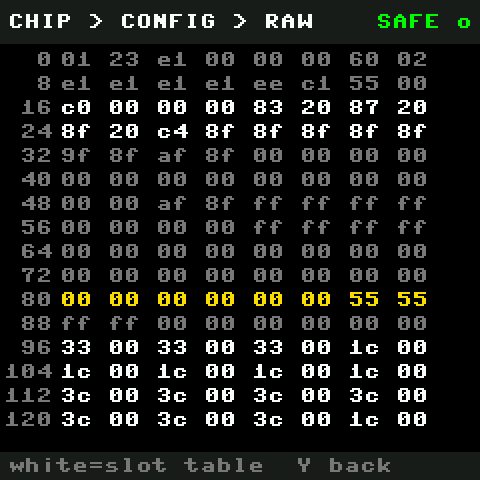
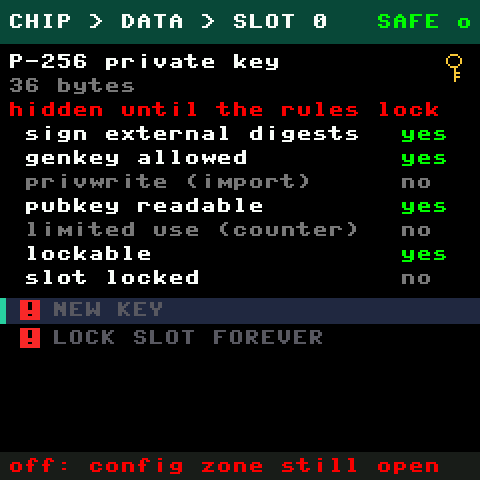
CHIPMAP.md and README for the new look: floor plan, tiles, badges, ceremonies, SIGN TEST, the note; screenshots refreshed
Claude-Session: https://claude.ai/code/session_01JiLn2gdKw2t1MbMzFL8pJj

diff --git a/CHIPMAP.md b/CHIPMAP.md
@@ -1,13 +1,13 @@
 # CHIP MAP: exploring the ATECC608 on the wallet itself
 
 The secure element usually disappears under a product. On this wallet it is the other way round:
-press a button and the chip is a place you can walk through, with rules, memory, secrets, a random
-generator and a few one-way doors. This is how that part of the firmware works: the screens, the
-keys, the three safety classes, the gates in front of anything permanent, and the code behind it.
+press a button and the chip is a place you can walk through, drawn as a floor plan, with rules,
+memory, secrets, a random generator and a few one-way doors. This is how that part of the firmware
+works: the screens, the keys, the three safety classes, the gates in front of anything permanent,
+the ceremonies behind those gates, and the code.
 
 Everything below runs on the Pico 2 W with the Waveshare Pico-LCD-1.3 (240×240, joystick, A/B/X/Y)
-and on the emulator (`tools/emu`), which has a virtual ATECC608 that answers like a fresh Adafruit
-breakout.
+and on the emulator (`tools/emu`), whose virtual ATECC608 answers like a fresh Adafruit breakout.
 
 ## Two doors: X and B
 
@@ -20,22 +20,32 @@ From the home screen:
 
 Y always goes up one level, and from the top of the map or the tutorial it goes home.
 
+![the boot screen](buildlog/images/chipmap-00-boot.png)
 ![the chip map](buildlog/images/chipmap-01-map.png)
-![the tutorial](buildlog/images/chipmap-11-learn.png)
 
 ## The header: where you are, and whether the wallet is armed
 
-Every chip screen has the same 22-pixel header bar. On the left is the breadcrumb: `CHIP`,
-`CHIP > CONFIG`, `CHIP > DATA > SLOT 3`, `LEARN > 2 ASK THE CHIP`. It is built from the trail of
-screens you came through; when it gets long it loses its head, never its tail (`.. DATA > SLOT 0`).
+Every chip screen has the same 22-pixel header bar, tinted with the colour of the zone you are in:
+CONFIG blue, DATA teal, OTP orange, COUNTERS purple, LAB pink, LEARN gold, refusals and the red
+screen red, results green. On the left is the breadcrumb: `CHIP`, `CHIP > CONFIG`,
+`CHIP > DATA > SLOT 3`, `LEARN > 2 ASK THE CHIP`. It is built from the trail of screens you came
+through; when it gets long it loses its head, never its tail (`.. DATA > SLOT 0`).
 
 On the right is the wallet's state: `SAFE o` in green, or `! ARMED 57s` in red counting down.
 ARM is not on the map on purpose. It is the wallet's own safety catch, not a feature of the chip.
 
 ## The map
 
+The map is the die itself: a dark rectangle with legs, and inside it the regions where they sit.
+CONFIG is a strip across the top with a padlock showing whether it is open or sealed. DATA is a 4×4
+field of small tiles, one per slot, coloured by what the slot is (gold for a P-256 key, blue for a
+public key, purple for AES, teal for plain data), the active slot outlined in green. OTP and
+COUNTERS are two small blocks on the right; the LAB is docked along the bottom. The joystick moves
+the white frame from region to region; the caption under the die names it, gives its size and
+state, and one line on what it is for. A opens the region.
+
 ```
-CHIP  (ATECC608A, i2c 0x60, serial ...)
+CHIP  (ATECC608A, i2c 0x60)
 ├── CONFIG     128 B   OPEN | LOCKED     the rules for every slot
 │   ├── o RAW BYTES                       the 128 bytes, 8 a row, slot table in white
 │   ├── o COMPARE WITH SAVED              chip vs the saved snapshot
@@ -44,11 +54,14 @@ CHIP  (ATECC608A, i2c 0x60, serial ...)
 │   ├── ! LOCK CONFIG FOREVER             permanent (only once the chip holds the wallet table)
 │   ├── ! LOCK DATA ZONE                  permanent (only after the config lock)
 │   └── o RE-READ
-├── DATA       16 slots                   keys and bytes, 36 B (0-7), 416 B (8), 72 B (9-15)
-│   └── SLOT n                            kind, size, what it may do, then its actions
+├── DATA       16 slots                   a 4x4 grid of tiles: 36 B (0-7), 416 B (8), 72 B (9-15)
+│   └── SLOT n                            kind, size, its rules, then its actions
 │       ├── o USE THIS KEY                make it the signing slot
-│       ├── ! NEW KEY                     permanent: GenKey replaces what is there
 │       ├── o SHOW PUBLIC KEY             qx and qy
+│       ├── o SIGN TEST                   sign 32 bytes, verify on the Pico, read counter 0
+│       ├── ! NEW KEY                     permanent: GenKey replaces what is there
+│       ├── ~ WRITE A NOTE                clear data slots only: 32 bytes you can overwrite
+│       ├── o READ THE BYTES              slots the rules let you read
 │       └── ! LOCK SLOT FOREVER           permanent
 ├── OTP        64 B                       write-once bits; hidden until the config lock
 ├── COUNTERS   2                          only ever go up
@@ -60,34 +73,40 @@ CHIP  (ATECC608A, i2c 0x60, serial ...)
     ├── IS YOUR SLOT A KEY?               Info KeyValid on the active slot
     ├── WHAT'S COUNTER 0?                 Counter read
     ├── WHAT'S IN YOUR OTP?               Read OTP block 0
-    ├── TRY READING SLOT 8                Read data slot 8
+    ├── TRY READING SECRET SLOT 8         Read data slot 8 (a secret slot under the wallet config)
     └── READ YOUR OWN ADDRESS             Read config word 4 (the I2C address byte)
 
 LEARN
 ├── 1 WHAT'S INSIDE?        -> the map
 ├── 2 ASK THE CHIP          -> the LAB
 ├── 3 CHANGE THE RULES      -> the CONFIG page
-├── 4 MAKE A KEY            -> the DATA list (waits for sealed rules)
-├── 5 SEAL THE VAULT        -> the CONFIG page (the three one-way doors; not today)
+├── 4 MAKE A KEY            -> the DATA grid (waits for sealed rules)
+├── 5 SEAL THE VAULT        -> the CONFIG page (the three one-way doors)
 └── ? COLOURS AND GATES
 ```
 
 Keys on every menu: joystick up/down moves, A (or the joystick press) opens or does, Y goes up.
-On a slot, left/right steps to the neighbouring slots. Result screens dismiss with A.
+On the DATA grid the joystick moves in all four directions; on a slot page, left/right step to the
+neighbouring slots. Result screens dismiss with A.
 
-![the data list](buildlog/images/chipmap-02-data-list.png)
+![the data grid](buildlog/images/chipmap-02-data-list.png)
 ![slot 0](buildlog/images/chipmap-03-slot-0.png)
+
+Each tile shows the slot number, its kind as an icon, its size, and one word: a fingerprint once a
+key is there, `hidden` in red while the config zone is still open, `empty` for a key slot with no
+key yet, `secret` or `clear` for data slots (the rules decide whether the chip will ever hand the
+bytes out in clear). A green bar marks the active slot, a red padlock a locked one.
 
 ## Three classes, said three ways
 
-Every action is one of three kinds, and each is shown by its colour, a glyph, and words, so it is
-never colour alone:
+Every action is one of three kinds, and each is shown by a coloured badge with its glyph, and by
+words in the footer when the item is selected, so it is never colour alone:
 
-| glyph | colour | words in the footer when the item is selected | examples |
-|---|---|---|---|
-| `o` | green | `SAFE TO EXPLORE: no changes` | reads, the LAB, RAW BYTES, SHOW PUBLIC KEY |
-| `~` | yellow | `REVERSIBLE: can be restored` | WRITE WALLET CONFIG, RESTORE SAVED CONFIG |
-| `!` | red | `PERMANENT: cannot be undone` | the three locks, NEW KEY |
+| badge | words | examples |
+|---|---|---|
+| green `o` | `SAFE TO EXPLORE: no changes` | reads, the LAB, RAW BYTES, SHOW PUBLIC KEY, SIGN TEST |
+| yellow `~` | `REVERSIBLE: can be restored` | WRITE WALLET CONFIG, RESTORE SAVED CONFIG, WRITE A NOTE |
+| red `!` | `PERMANENT: cannot be undone` | the three locks, NEW KEY |
 
 An item that cannot run right now is dimmed and the footer says why: `off: config zone still
 open`, `off: ALLOW_LOCK is False on the board`, `off: not armed: hold B+Y 3 s`, `off: write the
@@ -104,12 +123,26 @@ A permanent action goes through three gates, in this order:
    disarms. This lives in `signer.py`, so the app's remote `genkey` and `lock-config` commands
    over WiFi need it too: nothing permanent happens without someone at the device.
 3. **The red screen.** `PERMANENT: cannot be undone`, an open padlock, exactly what is about to be
-   sealed, and A held for **3 seconds** with a bar and a 3-2-1 countdown. Y cancels. A lock ends
-   on a green padlock and `SEALED`.
+   sealed, and A held for **3 seconds** with a bar and a 3-2-1 countdown. Y cancels.
 
 ![armed](buildlog/images/chipmap-12-armed.png)
 ![the red screen while holding A](buildlog/images/chipmap-13-permanent-hold.png)
+
+### The ceremonies
+
+What happens after the hold is not a menu line. The chip does the permanent thing, and then:
+
+- **RULES SEALED** (LOCK CONFIG FOREVER): the die is drawn with the CONFIG strip pulsing red, the
+  screen flashes white once, the strip turns green, the padlock closes, `RULES SEALED`, "never to
+  change again". Then the green SEALED screen with what opens next (the data zone, NEW KEY).
+- **KEY CREATED** (NEW KEY): the slot's tile fills with noise from the chip's own random generator
+  that thins out over eight frames while the key icon and the new fingerprint settle in.
+- **KEY SEALED** and **DATA SEALED** (LOCK SLOT, LOCK DATA ZONE): the padlock closes.
+
+Each is under a second, drawn on the wallet's timer right after the chip answers.
+
 ![sealed](buildlog/images/chipmap-14-sealed.png)
+![the grid after the lock](buildlog/images/chipmap-15-grid-sealed.png)
 
 The yellow screen is the lighter version: what will change, `I2C address unchanged`, `config zone
 stays OPEN`, and A held for 1.5 s. Y shows the full diff; B cancels.
@@ -117,13 +150,15 @@ stays OPEN`, and A held for 1.5 s. Y shows the full diff; B cancels.
 ## Refusals are part of the lesson
 
 A fresh chip says no to a lot: it hides the DATA and OTP zones, refuses GenKey and Sign, and
-answers Random with a fixed test pattern until its config zone is locked. The UI treats each refusal
-as an answer. The screen says `CHIP SAYS: NOT ALLOWED`, then **Why?** in plain words for this chip
-state ("The CONFIG zone is still open. Until its rules are locked, the chip will not expose the
-OTP zone."), then the raw truth: `STATUS 0x0F`, `execution error: not allowed in this state`.
-A on that screen shows the exact command: opcode, parameters, data, the answer bytes, round trip.
+answers Random with a fixed test pattern until its config zone is locked. A sealed chip still says
+no where its rules say so: slot 8 under the wallet config is secret, and the chip never hands its
+bytes out in clear. The UI treats each refusal as an answer. The screen says `CHIP SAYS: NOT
+ALLOWED`, then **Why?** in plain words for this chip state, then the raw truth: `STATUS 0x0F`,
+`execution error: not allowed in this state`. A on that screen shows the exact command: opcode,
+parameters, data, the answer bytes, round trip.
 
 ![a refusal](buildlog/images/chipmap-10-refused.png)
+![the secret slot](buildlog/images/chipmap-18-secret-slot.png)
 
 In the LAB the same idea has one more layer. An answer screen gives the meaning in words and the
 bytes; when the answer is odd (`MAKE RANDOMNESS` on an unlocked chip returns `ffff0000` eight
@@ -137,7 +172,7 @@ What the real fresh ATECC608A answered on 2026-09-16 is in `UPSTREAM.md` section
 it identifies itself, passes its self tests, hashes (matching the Pico's SHA-256) and reads its
 counters while unlocked; it refuses OTP and data reads with `0x0F`; Info GPIO refuses with `0x03`.
 
-## The reversible write, and why it is reversible
+## The reversible writes
 
 A fresh chip has exactly one region you may write: the config zone, and only until it is locked.
 Writing it again overwrites it again. So the wallet offers the write as a **reversible change**:
@@ -159,6 +194,13 @@ Writing it again overwrites it again. So the wallet offers the write as a **reve
 ![the diff before the write](buildlog/images/chipmap-05-write-diff.png)
 ![after the write](buildlog/images/chipmap-06-write-done.png)
 
+After the lock a second reversible write appears: **WRITE A NOTE** on a clear data slot (with the
+wallet config, slots 12 and 13: 72 bytes, readable and writable in clear) puts 32 bytes of text
+there, reads them back, and can be overwritten as often as you like until the data zone is locked.
+`READ THE BYTES` shows what a readable slot holds.
+
+![the note](buildlog/images/chipmap-17-note.png)
+
 The CONFIG page names what is on the chip: `CURRENT original bytes`, `wallet config`, or
 `modified` (a partial write, which RESTORE fixes), and whether a snapshot exists.
 
@@ -167,77 +209,92 @@ The CONFIG page names what is on the chip: `CURRENT original bytes`, `wallet con
 `LOCK CONFIG FOREVER` is offered only when the chip already holds the wallet table, so the old
 one-step "write + lock" is now two steps with a checkpoint you can undo in between.
 
-## How the code is put together
+## SIGN TEST
 
-Four firmware modules and one driver:
+Once a slot holds a key, `o SIGN TEST` signs SHA-256 of `picowallet` on the chip and verifies the
+signature on the Pico with the slot's public key (`p256.verify`). The result says `SIGNATURE
+VERIFIED`, shows r and s shortened, and, for a slot whose rules count signatures (slot 0 under the
+wallet config), reads counter 0 back: it climbs by one per signature and never comes down.
+
+![sign test](buildlog/images/chipmap-16-sign-test.png)
+
+## LEARN
+
+![the tutorial](buildlog/images/chipmap-11-learn.png)
+
+Five chapters and a card on the colours. Each chapter is a card of text with its icon; A leads into
+the real screen and marks the chapter done for this boot.
+
+## How the code is put together
 
 - **`firmware/slots.py`** is the state machine, `SlotsUI`. `wallet.py` creates it with the LCD, the
   signer and a callback, calls `open("zones")` or `open("learn")`, and on every 50 ms tick passes
-  the keys that went down; `tick()` returns `"home"` when the trail is exhausted. It also draws the
-  DATA screens (list, slot, public key), the red confirm, WORKING and the result screen.
-- **`firmware/chipmap.py`** draws the map, the CONFIG page and its write flow, OTP and COUNTERS,
-  the refusal screen and the raw-command view, and holds the shared chrome: the header with the
-  breadcrumb and ARM state, menus with class glyphs, footers, word wrap, scrolling, drawn icons
-  (check, cross, warning, open and closed padlock, since the 8×8 font has no such glyphs), and the
-  B+Y arming gesture.
+  the keys that went down; `tick()` returns `"home"` when the trail is exhausted. It draws the DATA
+  screens (grid, slot, public key), the red confirm, WORKING and the result screen, and runs the
+  actions, calling the ceremonies after the permanent ones.
+- **`firmware/chipmap.py`** draws the map (`draw_die`, `regions`), the slot tiles (`draw_tile`), the
+  CONFIG page and its write flow, OTP and COUNTERS, the refusal screen and the raw-command view,
+  and holds the shared chrome: the tinted header with the breadcrumb and ARM state, menus with
+  class badges, footers, word wrap, scrolling, and the B+Y arming gesture.
 - **`firmware/learn.py`** holds the LEARN cards, the context lookup (which card B opens on which
   screen), and the LAB: each question is a small function that runs one driver call and returns
   (words, bytes, why-or-None).
-- **`firmware/signer.py`** gained `arm() / disarm() / armed()` and `gate(what)`, the snapshot
-  functions, `write_config()` and `restore_snapshot()`, and `lock_config()` that now only locks
-  (`provision()` keeps write-then-lock for the app's command). `_allowed(flag)` is the single
-  choke point: the flag AND armed.
-- **`firmware/atecc.py`** gained names for the chip's status codes, a `trace` of the last command
-  (for the RAW views), `info(mode)`, `selftest()`, `sha256()`, `counter()`, `read_otp()`,
-  `read_data()`, `read_config_word()`, slot sizes and write/read policy in `decode_slot()`,
-  `diff_config()`, and the address guard plus readback in `write_config()`.
+- **`firmware/theme.py`** is the palette: RGB triples for the background, the panel, one identity
+  colour per zone and the three classes; `shade`, `mix`, `gradient`, and which zone a screen belongs
+  to. **`firmware/icons.py`** is the icon set: 25 sixteen-pixel bitmaps written as ASCII art,
+  packed at import into MONO_HLSB bitmaps and blitted in any colour through a two-entry palette
+  (`icons.draw(d, "key", x, y, color, scale)`). **`firmware/ceremony.py`** is the three animations.
+- **`firmware/splash.py`** is the boot screen; **`firmware/signer.py`** gained `arm / disarm /
+  armed`, `gate`, the snapshot functions, `write_config`, `restore_snapshot`, `sign_test`,
+  `write_note`, `read_note`; **`firmware/atecc.py`** gained status-code names, a `trace` of the last
+  command, the read-only commands, `write_data`, slot sizes and write/read policy in
+  `decode_slot`, `diff_config`, and the address guard plus readback in `write_config`.
 
 Navigation is a trail. `ui.go(view)` pushes the current screen onto `ui.stack` and `ui.back()`
 pops it; the breadcrumb is rendered from that stack. Short-lived screens (WORKING, results,
 refusals, the confirms, a LAB answer) do not go on the trail; they remember `ui.ret`, the screen to
 return to, so A or Y lands where you were.
 
-Two details worth knowing if you change it:
+Things worth knowing if you change it:
 
 - **B and Y are delivered on release** inside the chip UI (`chipmap.arm_tick`). Otherwise pressing
   B then Y to arm would first open a card or go back. A B or Y that was part of a B+Y hold is
   swallowed until both are up.
-- **Draw only when dirty.** A full redraw is about 45 ms of a 50 ms tick; redrawing every tick
-  starves the REPL so badly mpremote cannot connect (this happened once). Screens set `ui.dirty`
-  on input, the header's countdown once a second, the arm bar while holding.
-
-The screen is 240 px wide with an 8×8 font: 29 characters per line at the 4-pixel margin, 12 px
-per text row, about 17 rows between the header and the footer. Menus use 14 px rows. Anything
-longer is wrapped by `chipmap.wrap` or scrolled by `draw_scroll`.
+- **Draw only when dirty, and know the cost.** On the real panel a `show()` is 46 ms, a cached icon
+  blit about 1.3 ms, text and rectangles nearly free; the map draws in about 60 ms, the grid with
+  its 16 icons in 70 ms. Screens set `ui.dirty` on input, the header's countdown once a second,
+  the arm bar five times a second while holding. Redrawing every tick starves the REPL so badly
+  mpremote cannot connect (this happened once).
+- The screen is 240 px wide with an 8×8 font: 29 characters per line at the 4-pixel margin, 12 px
+  per text row. Anything longer is wrapped by `chipmap.wrap` or scrolled by `draw_scroll`.
 
 ## The virtual chip
 
 `emu/core/shims/atecc_sim.py` answers on the emulator's I2C bus at 0x60 with the real packet
-protocol. A fresh virtual part now carries the factory table read off a real Adafruit breakout
-(slots 0-2 typed P-256, GenKey allowed), returns the fixed `ffff0000` pattern for Random until the
-lock, answers Info KeyValid and State, SelfTest (all pass), SHA-256, counter reads, and refuses
-OTP and data reads with `0x0F` until the config lock, zeros after. Writes to OTP and data slots are
-not modelled yet.
+protocol. A fresh virtual part carries the factory table read off a real Adafruit breakout (slots
+0-2 typed P-256, GenKey allowed), returns the fixed `ffff0000` pattern for Random until the lock,
+answers Info KeyValid and State, SelfTest (all pass), SHA-256 and counter reads, refuses OTP and
+data reads with `0x0F` until the config lock, takes clear data writes after it (persisted), and
+spends a count on counter 0 for every signature from a LimitedUse slot. OTP writes are not
+modelled.
 
-Recipes that exercise it headless (`tools/emu headless main ...`, screenshots land where `--shot`
-says):
+Recipes that exercise it headless (`tools/emu headless main ...`):
 
 ```sh
-# the map, the list, slot 0
-tools/emu headless main --wait 2800 --key X --wait 400 --shot map.png --key down --key A --wait 400 --shot list.png
+# the map, the grid, slot 0
+tools/emu headless main --wait 2800 --key X --wait 400 --shot map.png --key down --key A --wait 400 --shot grid.png
 # arm, then look at the config page armed
 tools/emu headless main --wait 2800 --key X --hold B --hold Y --wait 3400 --release B --release Y --key A --wait 400 --shot cfg.png
-# write the wallet config (hold A on the yellow screen), then restore the snapshot
-tools/emu headless main --wait 2800 --key X --key A --key down --key A --hold A --wait 1900 --release A --wait 1200 --shot written.png
-# the red ceremony on a provisioned chip: `tools/emu chip ready` in the page, or --chip state.json headless
+# write the wallet config (hold A on the yellow screen), then seal it (hold A 3 s on the red one)
+tools/emu headless main --wait 2800 --key X --key A --key down --key A --hold A --wait 1900 --release A --wait 1200 --key A \
+  --hold B --hold Y --wait 3400 --release B --release Y --key up --key up --key up --key A --hold A --wait 3400 --release A --wait 2600 --shot sealed.png
 ```
 
-On the real board, `TESTPLAN.md` phase 4b walks the same things in order, ending with the
-write-and-restore round trip checked by `tools/usb run firmware/chipcheck.py`.
+On the real board, `TESTPLAN.md` phase 4b walks the read-only tour and the write-and-restore round
+trip, and phase 6 the sealing, each step checked with `tools/usb run firmware/chipcheck.py`.
 
 ## What is not here yet
 
-- Writes to data slots and OTP (they need the config lock first), PrivWrite, counter increments.
-- The full lock ceremony: the red screen has the padlock, the countdown and `SEALED`, but the
-  animated transition (rules OPEN, then the lock closing) is a later step.
+- OTP writes, PrivWrite, counter increments on purpose, encrypted reads and writes.
 - Balances per key, which needs a lookup route in the app.
+- A custom rule table for the chips still to arrive: design it on the emulator first.

diff --git a/README.md b/README.md
@@ -130,9 +130,10 @@ is normal; every chip in use is locked. Generate the final key before deploying 
 
 ### Keys and slots, on the wallet itself
 
-Press **X** on the home screen for the **CHIP MAP**: the chip as a place you can walk through.
-CONFIG (128 bytes of rules), DATA (16 slots of 36, 416 or 72 bytes), OTP (64 write-once bytes),
-COUNTERS (two numbers that only go up) and the LAB, where each question is one real command
+Press **X** on the home screen for the **CHIP MAP**: the chip drawn as a floor plan you can walk
+through. CONFIG (128 bytes of rules) across the top, DATA (16 slots of 36, 416 or 72 bytes, a 4×4
+field of tiles coloured by what each slot is), OTP (64 write-once bytes), COUNTERS (two numbers
+that only go up) and the LAB docked below, where each question is one real command
 ("WHO ARE YOU?", "ARE YOU HEALTHY?", "MAKE RANDOMNESS") with the answer in words, the bytes, a
 "why that's weird" layer and the raw command underneath. The header always says where you are
 (`CHIP > DATA > SLOT 3`) and whether the wallet is `SAFE` or `ARMED`. **B** opens **LEARN**, five
@@ -144,7 +145,11 @@ Every action is one of three classes, said by colour, a glyph and words: `o SAFE
 still open, after the chip's original bytes are saved as a snapshot, with a diff of what changes
 shown first), `! PERMANENT` (cannot be undone). A permanent action needs three things: the
 `ALLOW_LOCK` / `ALLOW_GENKEY` flag in `secrets.py` on the board, the wallet **armed** (hold B and Y
-together for 3 s; good for 60 s, shown in the header), and A held for 3 s on the red screen.
+together for 3 s; good for 60 s, shown in the header), and A held for 3 s on the red screen. The
+permanent steps end in a small ceremony: the CONFIG strip on the die pulses and the padlock closes
+for RULES SEALED; noise from the chip's own randomness settles into the key for KEY CREATED. A key
+slot has a SIGN TEST (sign, then verify on the Pico, and watch counter 0 climb); the clear data
+slots take a NOTE you can overwrite until the data zone is locked. `CHIPMAP.md` has the tour.
 
 How the slots work. The ATECC608 has 16 data slots. What each slot *is* (a P-256 private key, a
 public key, an AES key, plain data) and what it *may do* (sign digests handed in from outside, be
@@ -223,9 +228,9 @@ also has **Cancel on Pico**. Monitor `RecoveryStarted` events. See `SECURITY.md`
 
 ![SIGN? $69 USDS to atg.eth, green bar at A, red bar at Y](buildlog/images/2026-09-05-20-sign-screen-69-usds.jpg)
 
-**Boot:** a chip icon whose legs light up while the board comes up, and a checklist that fills in:
-screen, wifi (joining, then the IP), chip (part, address, and whether it is new, empty or holds a
-key), app.
+**Boot:** a navy gradient, a chip die whose legs chase the rainbow while a step waits, an underline
+that fills as the steps complete, and a checklist with an icon per step: screen, wifi (joining,
+then the IP), chip (part, address, and whether it is new, empty or holds a key), app.
 
 **Chip map and LEARN:** X and B from the home screen, described under "Keys and slots" above. The
 chip's own refusals, the fixed Random pattern before the lock, and the reversible config write are

diff --git a/emu/SKILL.md b/emu/SKILL.md
@@ -99,7 +99,8 @@ Firmware that should ship for good goes in `firmware/` and through `tools/push`.
   keys. From Python: `import atecc_sim; atecc_sim.provision(); atecc_sim.wipe(); atecc_sim.state()`.
   In the wallet, X on the home screen opens the CHIP MAP (config, data slots, OTP, counters, the
   LAB of read-only questions) and B opens LEARN (the tutorial); `chipmap.py`, `learn.py` and
-  `slots.py` draw them. A fresh virtual chip answers like a real fresh Adafruit part (factory
+  `slots.py` draw them, with `theme.py` (zone colours), `icons.py` (16 px bitmaps, `icons.draw(d,
+  "key", x, y, color, scale)`) and `ceremony.py` (the permanent transitions' animations). A fresh virtual chip answers like a real fresh Adafruit part (factory
   table, Random = ffff0000 until the lock); OTP and data reads refuse until the config lock. Red
   actions need `ALLOW_*` True (the emulator's secrets) AND the wallet armed: hold B and Y for 3 s,
   or `--exec 'import signer; signer.arm()'` headless.
